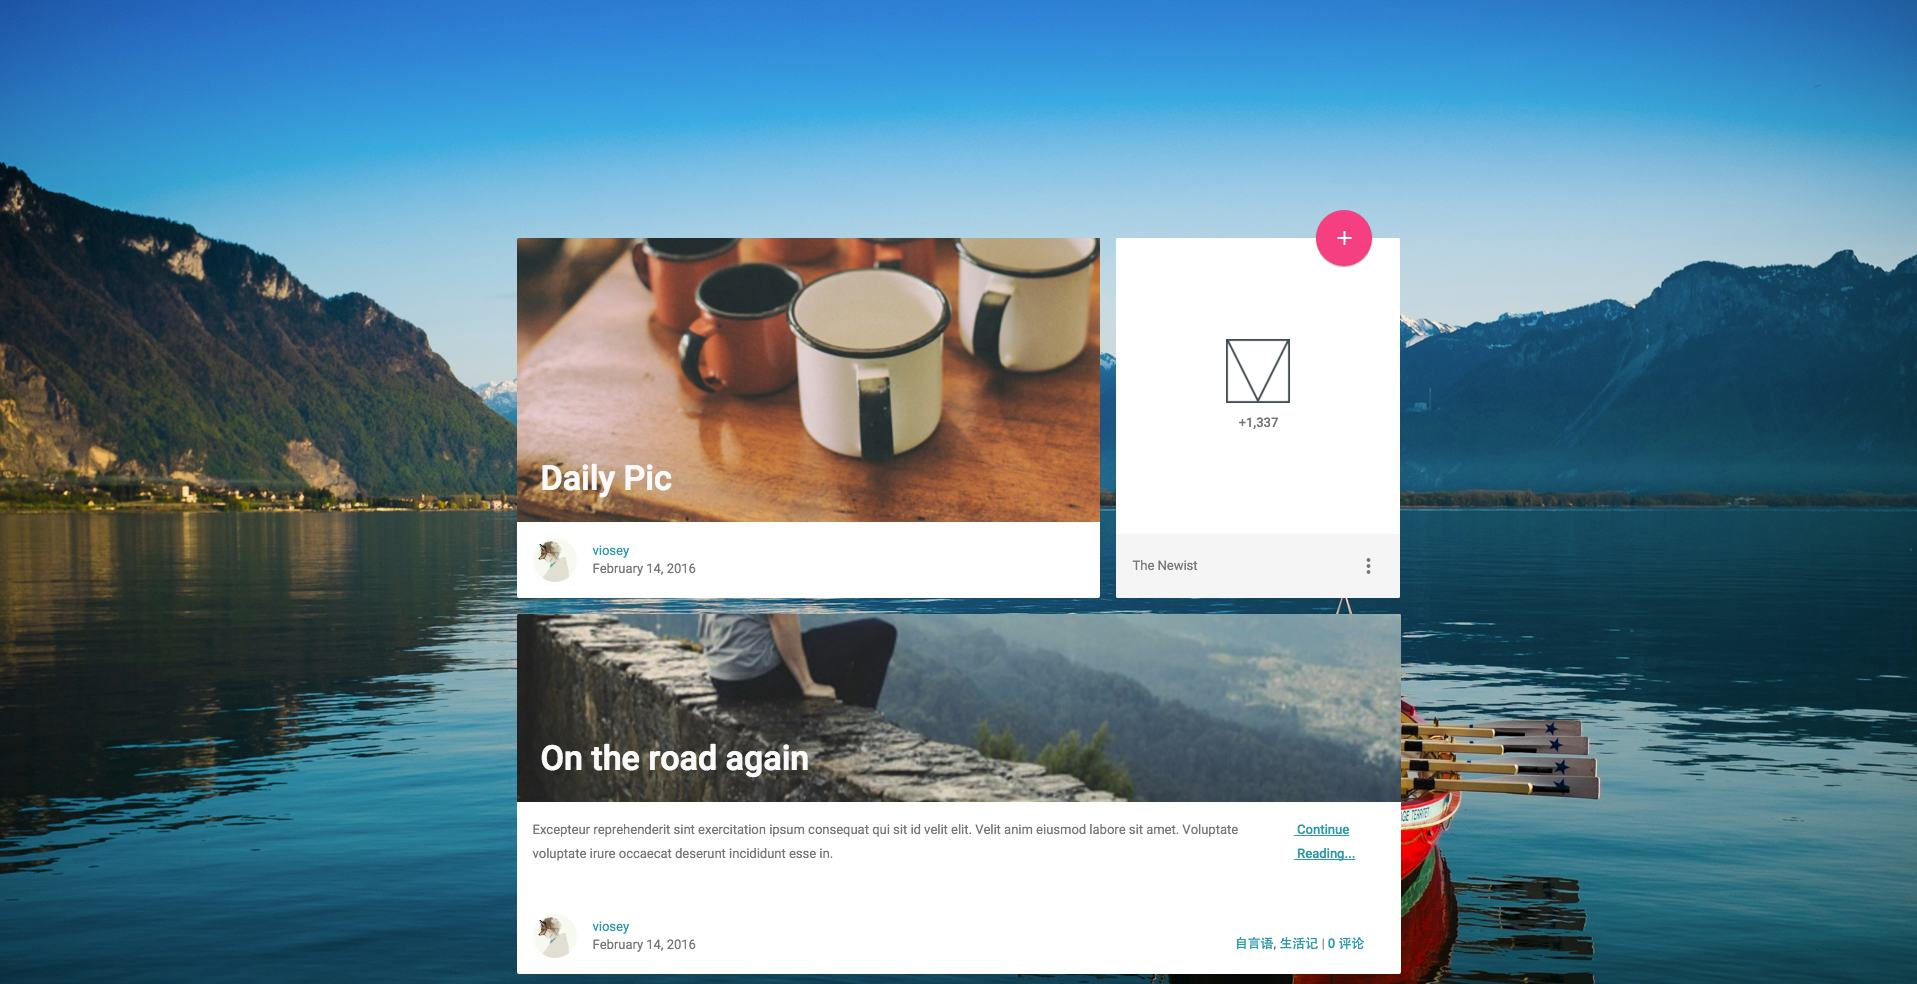
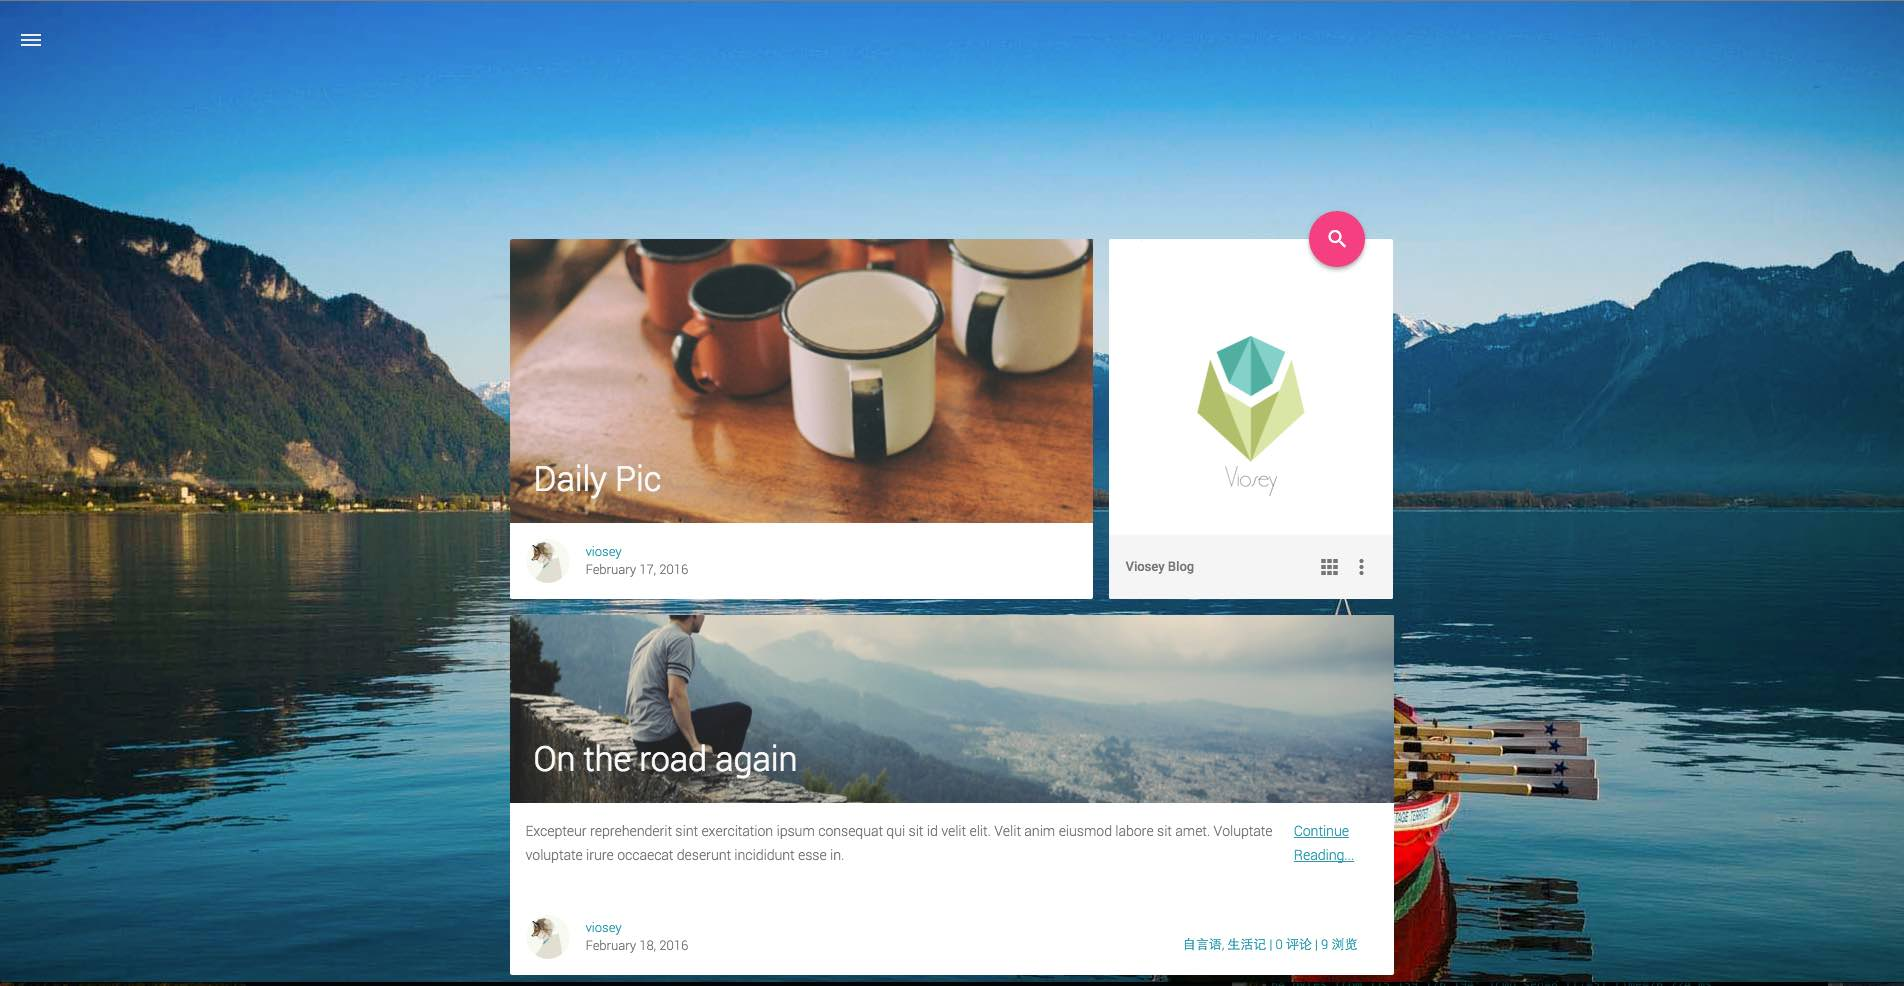
1.1.1
- Update screenshot.jpg
- Update README.md

diff --git a/sidebar.php b/sidebar.php
@@ -208,5 +208,5 @@
     <!-- Sidebar bottom text -->
     <a href="mailto:viosey@outlook.com" class="sidebar-footer-text-a"><div class="sidebar-text mdl-button mdl-js-button mdl-js-ripple-effect sidebar-footer-text-div">Help & Support</div></a>
     <a href="https://github.com/viosey/MaterialDesign_TypechoTheme/issues" target="_blank" class="sidebar-footer-text-a"><div class="sidebar-text mdl-button mdl-js-button mdl-js-ripple-effect sidebar-footer-text-div">Feedback</div></a>
-    <a href="#" target="_blank" class="sidebar-footer-text-a"><div class="sidebar-text mdl-button mdl-js-button mdl-js-ripple-effect sidebar-footer-text-div">About Theme</div></a>
+    <a href="https://blog.viosey.com/index.php/MD_TT.html" target="_blank" class="sidebar-footer-text-a"><div class="sidebar-text mdl-button mdl-js-button mdl-js-ripple-effect sidebar-footer-text-div">About Theme</div></a>
 </aside>

diff --git a/index.php b/index.php
@@ -4,7 +4,7 @@
  *
  * @package Material Design Theme
  * @author viosey
- * @version 1.1.0
+ * @version 1.1.1
  * @link https://viosey.com
  */
 

diff --git a/README.md b/README.md
@@ -6,7 +6,14 @@ A Typecho Theme based on Google Material Design
 ## 基本特性
 - [Demo](https://blog.viosey.com)
 - 颜值高 颜值高 颜值高 (重要的事情...
+- 侧边栏包含
 - I'm Feeling Lucky (显示随机文章
+ 	- 用户入口
+	- 最新文章
+	- 最新评论
+	- 归档
+	- 独立页面
+	- 以及一些七七八八的东西...
 - SmoothScroll.js使用中 (滚动如丝般顺滑
 - 中文主题翻译中...
 
